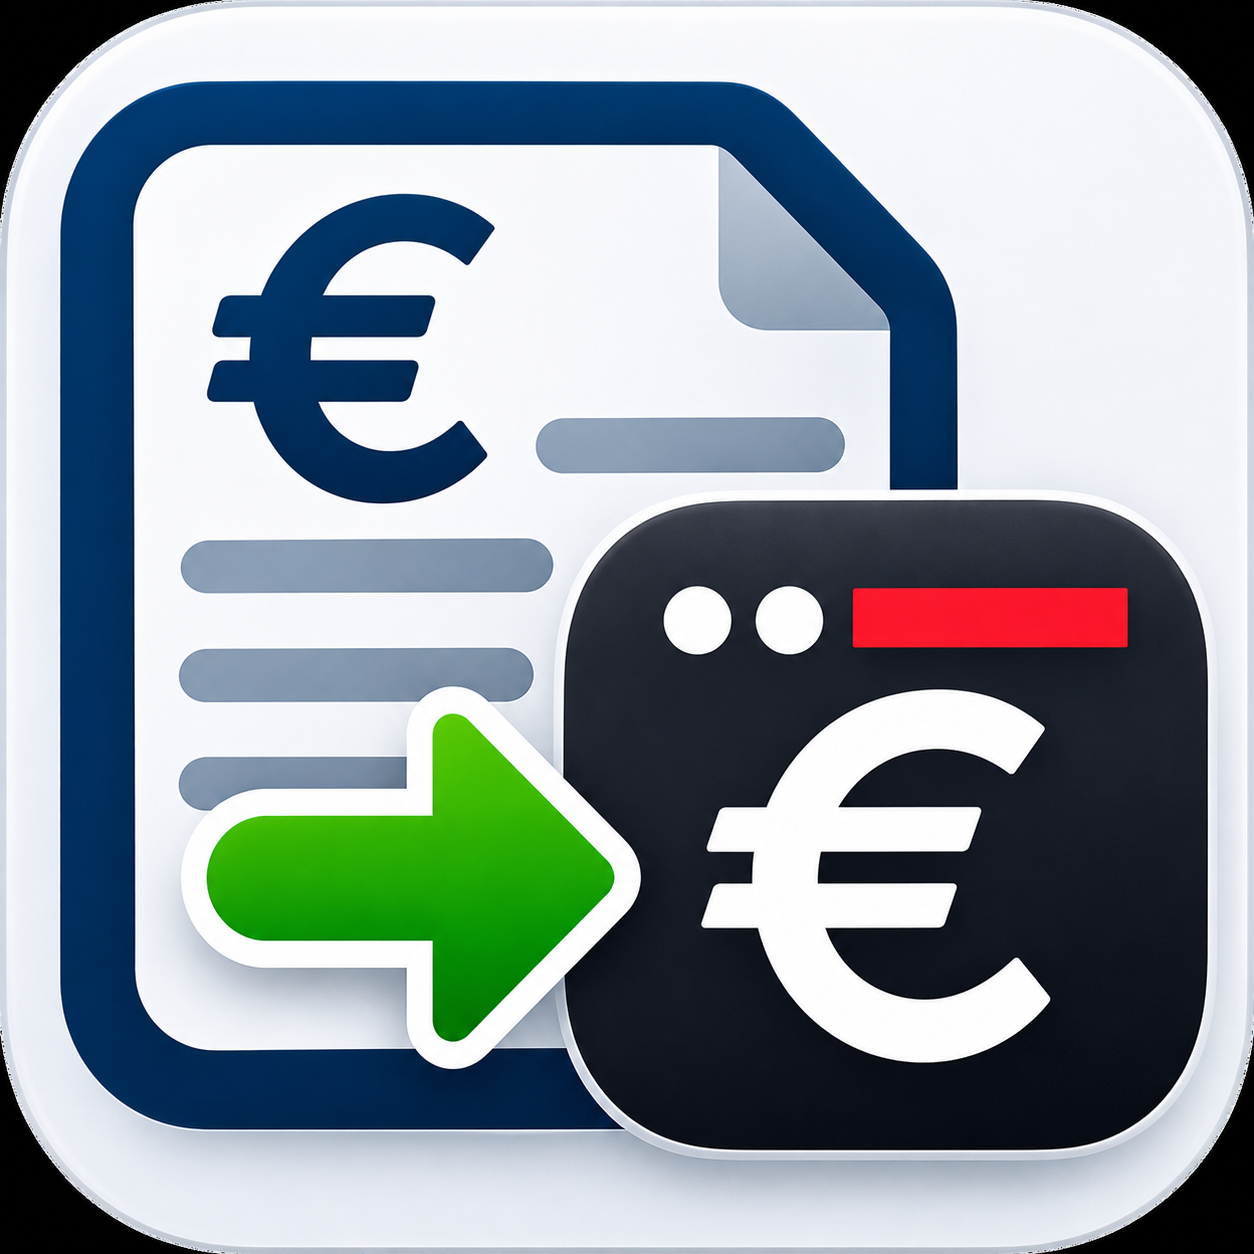
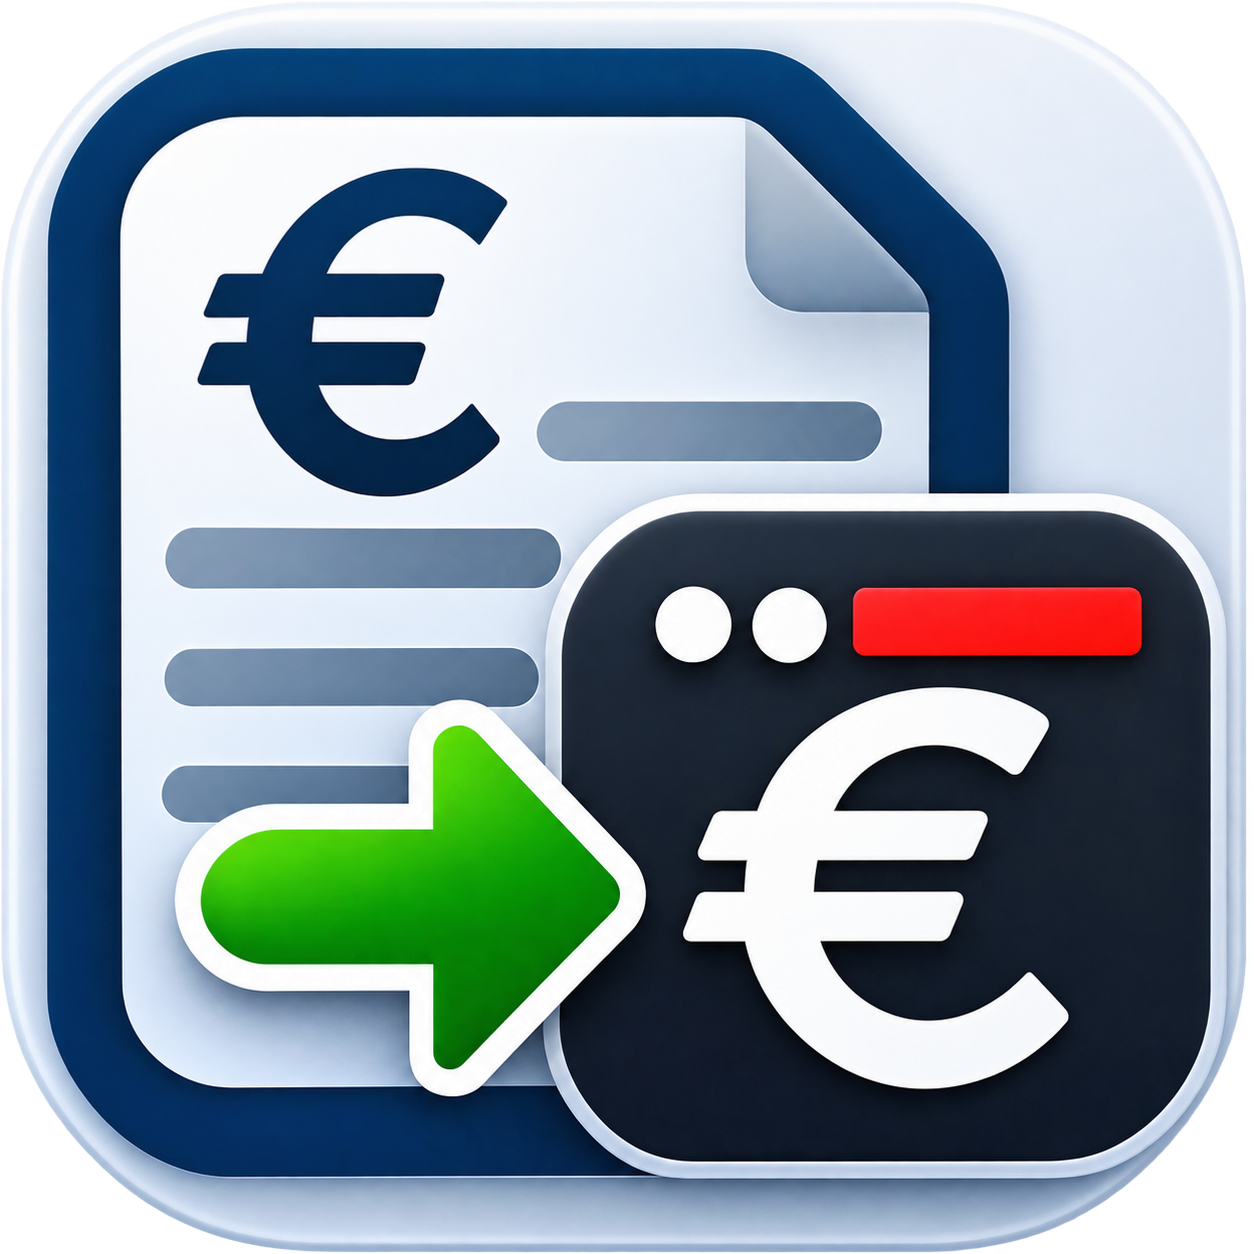
Release v0.7.0: Add Paperless-ngx integration

diff --git a/extensions/rechnung-ueberweisen/src/rechnung-aus-paperless.tsx b/extensions/rechnung-ueberweisen/src/rechnung-aus-paperless.tsx
@@ -1,0 +1,197 @@
+import { Action, ActionPanel, Icon, List, getPreferenceValues, openCommandPreferences, showToast, Toast, useNavigation } from "@raycast/api";
+import { useEffect, useState } from "react";
+import { mkdtemp, rm, writeFile, readdir, stat } from "node:fs/promises";
+import os from "node:os";
+import path from "node:path";
+import { InvoiceForm } from "./rechnung-ueberweisen";
+
+type Settings = { paperlessUrl?: string; paperlessToken?: string };
+type Document = { id: number; title: string; created?: string; added?: string; correspondent?: number | null; original_file_name?: string };
+type Page = { results: Document[]; next: string | null };
+const MAX_PDF_BYTES = 30 * 1024 * 1024;
+
+function config(): { base: URL; token: string } {
+  const prefs = getPreferenceValues<Settings>();
+  const url = (prefs.paperlessUrl ?? "").trim().replace(/\/+$/, "");
+  const token = (prefs.paperlessToken ?? "").trim();
+  if (!url || !token) throw new Error("Paperless-Server und API-Token in den Befehlseinstellungen hinterlegen.");
+  const base = new URL(url + "/");
+  if (base.protocol !== "https:" && base.protocol !== "http:") throw new Error("Nur HTTP(S)-Serveradressen sind erlaubt.");
+  if (base.username || base.password || base.search || base.hash) throw new Error("Bitte eine Serveradresse ohne Zugangsdaten, Query oder Fragment verwenden.");
+  return { base, token };
+}
+
+async function apiGet(url: URL, base: URL, token: string, signal?: AbortSignal): Promise<Response> {
+  // Keine Token-Weitergabe an fremde Hosts, auch nicht bei Redirects.
+  if (url.origin !== base.origin || !url.pathname.startsWith(base.pathname.replace(/\/?$/, "/") + "api/")) {
+    throw new Error("Ungültige Paperless-API-Adresse.");
+  }
+  const response = await fetch(url, {
+    headers: { Authorization: `Token ${token}`, Accept: "application/json, application/pdf, */*" },
+    redirect: "manual",
+    signal,
+  });
+  if (response.status >= 300 && response.status < 400) throw new Error("Paperless hat auf eine andere Adresse umgeleitet. Bitte die Server-URL prüfen.");
+  if (response.status === 401 || response.status === 403) throw new Error("Paperless-Zugriff verweigert. Bitte API-Token und Berechtigungen prüfen.");
+  if (!response.ok) throw new Error(`Paperless HTTP ${response.status}`);
+  return response;
+}
+
+function apiUrl(base: URL, endpoint: string): URL {
+  return new URL("api/" + endpoint, base);
+}
+
+type DocumentType = { id: number; name: string };
+type DocumentTypePage = { results: DocumentType[]; next: string | null };
+
+async function findInvoiceDocumentType(base: URL, token: string, signal: AbortSignal): Promise<number> {
+  let next: URL | null = apiUrl(base, "document_types/");
+  const visited = new Set<string>();
+  while (next) {
+    if (visited.has(next.href)) throw new Error("Paperless liefert eine zyklische Dokumenttyp-Paginierung.");
+    visited.add(next.href);
+    const response = await apiGet(next, base, token, signal);
+    const data = (await response.json()) as DocumentTypePage;
+    if (!Array.isArray(data.results)) throw new Error("Unerwartete Antwort beim Laden der Dokumenttypen.");
+    const match = data.results.find((type) => type.name?.trim().toLocaleLowerCase("de") === "rechnung");
+    if (match) return match.id;
+    next = data.next ? new URL(data.next, base) : null;
+  }
+  throw new Error('In Paperless ist kein Dokumenttyp mit dem Namen "Rechnung" vorhanden.');
+}
+
+async function fetchDocuments(query: string, next: string | null, signal: AbortSignal): Promise<Page> {
+  const { base, token } = config();
+  const invoiceTypeId = await findInvoiceDocumentType(base, token, signal);
+  const url = next ? new URL(next, base) : apiUrl(base, "documents/");
+  url.searchParams.set("document_type__id", String(invoiceTypeId));
+  if (!next) {
+    url.searchParams.set("page_size", "30");
+    url.searchParams.set("ordering", "-added");
+    if (query.trim()) url.searchParams.set("text", query.trim());
+  }
+  const response = await apiGet(url, base, token, signal);
+  const data = (await response.json()) as Page;
+  if (!Array.isArray(data.results)) throw new Error("Unerwartete Antwort von Paperless.");
+  return { results: data.results, next: data.next ?? null };
+}
+
+// Verwaiste PDFs (z.B. bei abgebrochener Passwortabfrage) nach 24h entfernen.
+// Nur eigene Tempverzeichnisse im OS-Tempordner; keine fremden Dateien.
+async function cleanupOldPaperlessFiles() {
+  const tmp = os.tmpdir();
+  const now = Date.now();
+  try {
+    for (const name of await readdir(tmp)) {
+      if (!/^raycast-paperless-[A-Za-z0-9]+$/.test(name)) continue;
+      const dir = path.join(tmp, name);
+      try {
+        const info = await stat(dir);
+        if (info.isDirectory() && now - info.mtimeMs > 24 * 60 * 60 * 1000) {
+          await rm(dir, { recursive: true, force: true });
+        }
+      } catch { /* bereits entfernt oder kein Zugriff */ }
+    }
+  } catch { /* Tempverzeichnis nicht lesbar */ }
+}
+
+async function downloadPdf(id: number): Promise<string> {
+  const { base, token } = config();
+  await cleanupOldPaperlessFiles();
+  // Zuerst das Original für SEPA-QR-Codes; bei Nicht-PDF Archivversion versuchen.
+  for (const original of [true, false]) {
+    const url = apiUrl(base, `documents/${id}/download/`);
+    if (original) url.searchParams.set("original", "true");
+    const response = await apiGet(url, base, token);
+    const contentLength = Number(response.headers.get("content-length") || 0);
+    if (contentLength > MAX_PDF_BYTES) throw new Error("PDF ist größer als 30 MB.");
+    const buffer = Buffer.from(await response.arrayBuffer());
+    if (buffer.length > MAX_PDF_BYTES) throw new Error("PDF ist größer als 30 MB.");
+    if (buffer.subarray(0, 5).toString("ascii") !== "%PDF-") continue;
+    const dir = await mkdtemp(path.join(os.tmpdir(), "raycast-paperless-"));
+    const target = path.join(dir, `paperless-${id}.pdf`);
+    try {
+      await writeFile(target, buffer, { mode: 0o600 });
+      return target;
+    } catch (error) {
+      await rm(dir, { recursive: true, force: true });
+      throw error;
+    }
+  }
+  throw new Error("Weder Original noch Archivversion ist ein PDF.");
+}
+
+export default function PaperlessCommand() {
+  const { push } = useNavigation();
+  const [search, setSearch] = useState("");
+  const [items, setItems] = useState<Document[]>([]);
+  const [next, setNext] = useState<string | null>(null);
+  const [loading, setLoading] = useState(false);
+  const [downloading, setDownloading] = useState(false);
+  const [error, setError] = useState("");
+  const [reload, setReload] = useState(0);
+
+  useEffect(() => {
+    const controller = new AbortController();
+    const timer = setTimeout(async () => {
+      setLoading(true);
+      setError("");
+      try {
+        const page = await fetchDocuments(search, null, controller.signal);
+        if (!controller.signal.aborted) { setItems(page.results); setNext(page.next); }
+      } catch (e) {
+        if (!controller.signal.aborted) { setItems([]); setNext(null); setError(e instanceof Error ? e.message : String(e)); }
+      } finally {
+        if (!controller.signal.aborted) setLoading(false);
+      }
+    }, 300);
+    return () => { clearTimeout(timer); controller.abort(); };
+  }, [search, reload]);
+
+  async function loadMore() {
+    if (!next || loading) return;
+    setLoading(true);
+    try {
+      const page = await fetchDocuments(search, next, new AbortController().signal);
+      setItems((previous) => [...previous, ...page.results.filter((d) => !previous.some((p) => p.id === d.id))]);
+      setNext(page.next);
+    } catch (e) {
+      await showToast({ style: Toast.Style.Failure, title: "Weitere Dokumente konnten nicht geladen werden", message: String(e) });
+    } finally { setLoading(false); }
+  }
+
+  async function choose(doc: Document) {
+    if (downloading) return;
+    setDownloading(true);
+    try {
+      const pdf = await downloadPdf(doc.id);
+      push(<InvoiceForm sourceFilePath={pdf} sourceFilename={doc.title || `Paperless #${doc.id}`} deleteOnUnmount />);
+    } catch (e) {
+      await showToast({ style: Toast.Style.Failure, title: "Dokument konnte nicht geladen werden", message: e instanceof Error ? e.message : String(e) });
+    } finally { setDownloading(false); }
+  }
+
+  return (
+    <List isLoading={loading || downloading} searchBarPlaceholder="Rechnungen in Paperless suchen…" onSearchTextChange={setSearch} throttle>
+      {error ? (
+        <List.EmptyView title="Paperless nicht erreichbar" description={error} actions={<ActionPanel><Action title="Paperless-Einstellungen öffnen" icon={Icon.Gear} onAction={openCommandPreferences} /><Action title="Erneut versuchen" onAction={() => setReload((v) => v + 1)} /></ActionPanel>} />
+      ) : items.length === 0 ? (
+        <List.EmptyView title="Keine Rechnungen gefunden" description="Nur Dokumente vom Typ Rechnung werden angezeigt. Suchbegriff ändern oder Suche leeren." />
+      ) : (
+        <>
+          {items.map((doc) => (
+            <List.Item
+              key={doc.id}
+              icon={Icon.Document}
+              title={doc.title || `Dokument #${doc.id}`}
+              subtitle={doc.original_file_name || undefined}
+              accessories={[{ text: (doc.created || doc.added || "").slice(0, 10) }, { text: `#${doc.id}` }]}
+              actions={<ActionPanel><Action title="Als Rechnung übernehmen" icon={Icon.ArrowRight} onAction={() => choose(doc)} /><Action title="Paperless-Einstellungen" icon={Icon.Gear} onAction={openCommandPreferences} /></ActionPanel>}
+            />
+          ))}
+          {next && <List.Item title="Weitere Dokumente laden…" icon={Icon.ArrowDown} actions={<ActionPanel><Action title="Weitere Dokumente laden" onAction={loadMore} /></ActionPanel>} />}
+        </>
+      )}
+    </List>
+  );
+}

diff --git a/extensions/rechnung-ueberweisen/src/rechnung-ueberweisen.tsx b/extensions/rechnung-ueberweisen/src/rechnung-ueberweisen.tsx
@@ -3,7 +3,7 @@ import { useEffect, useState } from "react";
 import { execFile } from "node:child_process";
 import { promisify } from "node:util";
 import { existsSync } from "node:fs";
-import { mkdir, rename, writeFile } from "node:fs/promises";
+import { mkdir, rename, writeFile, rm } from "node:fs/promises";
 import { randomUUID } from "node:crypto";
 import os from "node:os";
 import path from "node:path";
@@ -77,7 +77,11 @@ function AlternativePicker({
   );
 }
 
-export default function Command() {
+export function InvoiceForm({ sourceFilePath, sourceFilename, deleteOnUnmount = false }: {
+  sourceFilePath?: string;
+  sourceFilename?: string;
+  deleteOnUnmount?: boolean;
+}) {
   const [invoice, setInvoice] = useState<Invoice>();
   const [loading, setLoading] = useState(true);
   const [submitting, setSubmitting] = useState(false);
@@ -91,6 +95,18 @@ export default function Command() {
   const [pdfPassword, setPdfPassword] = useState("");
   const [savePassword, setSavePassword] = useState(true);
   const [passwordRejected, setPasswordRejected] = useState(false);
+
+  // Nur von dieser Extension erzeugte Paperless-Tempdateien löschen.
+  // Niemals Finder-PDFs anfassen. Nicht beim Unmount löschen: Raycast kann
+  // während eines laufenden Swift-Aufrufs die View kurz neu aufbauen.
+  async function cleanupPaperlessPdf(filePath: string) {
+    if (!deleteOnUnmount || !sourceFilePath || filePath !== sourceFilePath) return;
+    const directory = path.dirname(filePath);
+    if (path.dirname(directory) !== os.tmpdir() ||
+        !path.basename(directory).startsWith("raycast-paperless-") ||
+        !/^paperless-\d+\.pdf$/.test(path.basename(filePath))) return;
+    await rm(directory, { recursive: true, force: true }).catch(() => {});
+  }
 
   async function extractPdf(filePath: string, password?: string, remember = false) {
     setLoading(true);
@@ -123,8 +139,12 @@ export default function Command() {
       setNeedsPassword(false);
       setPasswordRejected(false);
       setPdfPassword("");
+      // PDF wird nach erfolgreicher Swift-Auswertung nicht mehr benötigt.
+      // Bei Passwortabfrage bleibt sie bis zum erfolgreichen Entsperren erhalten.
+      await cleanupPaperlessPdf(filePath);
       if (!data.iban.length) await showToast({ style: Toast.Style.Failure, title: "Keine gültige IBAN erkannt", message: "Bitte manuell ergänzen." });
     } catch (error) {
+      await cleanupPaperlessPdf(filePath);
       await showToast({ style: Toast.Style.Failure, title: "PDF konnte nicht verarbeitet werden", message: error instanceof Error ? error.message : String(error) });
     } finally {
       setLoading(false);
@@ -135,13 +155,16 @@ export default function Command() {
     let active = true;
     async function load() {
       try {
-        const selected = await getSelectedFinderItems();
-        const pdf = selected.find((item) => item.path.toLowerCase().endsWith(".pdf"));
-        if (!pdf) throw new Error("Bitte zuerst eine PDF-Datei im Finder markieren.");
+        let pdfPathToRead = sourceFilePath;
+        if (!pdfPathToRead) {
+          const selected = await getSelectedFinderItems();
+          pdfPathToRead = selected.find((item) => item.path.toLowerCase().endsWith(".pdf"))?.path;
+        }
+        if (!pdfPathToRead) throw new Error("Bitte zuerst eine PDF-Datei im Finder markieren.");
         if (!active) return;
-        setPdfPath(pdf.path);
-        setFilename(path.basename(pdf.path));
-        await extractPdf(pdf.path);
+        setPdfPath(pdfPathToRead);
+        setFilename(sourceFilename || path.basename(pdfPathToRead));
+        await extractPdf(pdfPathToRead);
       } catch (error) {
         if (active) {
           setLoading(false);
@@ -150,8 +173,11 @@ export default function Command() {
       }
     }
     void load();
-    return () => { active = false; };
-  }, []);
+    return () => {
+      active = false;
+      // Kein Unmount-Cleanup: könnte laufenden Swift-Aufruf unterbrechen.
+    };
+  }, [sourceFilePath, sourceFilename, deleteOnUnmount]);
 
   function paymentText(): string {
     return [
@@ -273,4 +299,8 @@ export default function Command() {
       </>}
     </Form>
   );
+}
+
+export default function Command() {
+  return <InvoiceForm />;
 }

diff --git a/extensions/rechnung-ueberweisen/raycast-env.d.ts b/extensions/rechnung-ueberweisen/raycast-env.d.ts
@@ -15,10 +15,19 @@ declare type Preferences = ExtensionPreferences
 declare namespace Preferences {
   /** Preferences accessible in the `rechnung-ueberweisen` command */
   export type RechnungUeberweisen = ExtensionPreferences & {}
+  /** Preferences accessible in the `rechnung-aus-paperless` command */
+  export type RechnungAusPaperless = ExtensionPreferences & {
+  /** Paperless-ngx Server URL - Basisadresse deiner Paperless-ngx-Instanz */
+  "paperlessUrl": string,
+  /** Paperless-ngx API Token - API-Token aus dem Paperless-Profil */
+  "paperlessToken": string
+}
 }
 
 declare namespace Arguments {
   /** Arguments passed to the `rechnung-ueberweisen` command */
   export type RechnungUeberweisen = {}
+  /** Arguments passed to the `rechnung-aus-paperless` command */
+  export type RechnungAusPaperless = {}
 }
 

diff --git a/extensions/rechnung-ueberweisen/README.md b/extensions/rechnung-ueberweisen/README.md
@@ -1,8 +1,22 @@
 # Rechnung überweisen — Raycast extension
 
-A macOS Raycast extension that reads payment details from a PDF invoice selected in Finder and prepares a **prefilled SEPA transfer in simplebanking / simplesend**. It does not submit or authorize payments.
+A macOS Raycast extension that reads payment details from PDF invoices selected in Finder or retrieved from **Paperless-ngx**, and prepares a **prefilled SEPA transfer in simplebanking / simplesend**. It does not submit or authorize payments.
 
 > **Language:** The Raycast interface is currently in German. This README is in English for contributors.
+
+## What's New in v0.7.0
+
+Version 0.7.0 adds optional **Paperless-ngx integration**.
+
+- Search invoices stored in your self-hosted Paperless-ngx instance directly from Raycast.
+- Automatically filter documents by the Paperless document type `Rechnung`.
+- Configure the Paperless server URL and API token in Raycast preferences.
+- Download selected PDFs temporarily and process them using the existing invoice extraction workflow.
+- Review and edit the extracted payment details before sending them to simplesend.
+- Clean up temporary PDF files after processing, with additional cleanup for older files.
+- Updated extension icon.
+
+The original Finder-based workflow remains available without Paperless-ngx.
 
 ## Features
 
@@ -53,6 +67,24 @@ Restart simplebanking after changing this preference. A working simplesend entit
 
 The extension **never executes a bank transfer by itself**.
 
+## Paperless-ngx setup and usage
+
+Paperless-ngx integration is optional and independent of other Raycast Paperless extensions.
+
+1. Configure the **Paperless-ngx Server URL** and **Paperless-ngx API Token** in the preferences for the **Rechnung aus Paperless** command.
+2. In Paperless-ngx, classify invoices using the document type `Rechnung`.
+3. Run **Rechnung aus Paperless** in Raycast.
+4. Search for and select an invoice.
+5. Review the extracted payee, IBAN, amount, and payment reference.
+6. Choose **In simplesend öffnen** to prepare the transfer in simplebanking.
+7. Verify and authorize the transfer in simplebanking.
+
+The document type is resolved dynamically through the Paperless-ngx API; no document type ID needs to be configured.
+
+Downloaded PDFs are processed locally as temporary files. The extension removes temporary files after processing and performs cleanup of older temporary files from interrupted sessions. Original documents in Paperless-ngx are not modified.
+
+Paperless credentials are configured in Raycast preferences, not embedded in the source code. The API token uses a password-type preference.
+
 ## Password-protected PDFs
 
 The PDF is unlocked for reading without modifying the original file. A password can be stored in the macOS Keychain and reused automatically. The saved password is tried for **other encrypted PDFs as well**; it is not currently restricted to a particular pharmacy or sender. If it does not work, Raycast prompts for another password. Passwords are not placed in transfer-draft JSON or the source repository.
@@ -81,7 +113,8 @@ rechnung-ueberweisen/
 │   └── transfer-icon.png
 ├── src/
 │   ├── extract.ts             # Payment-data parsing and candidate selection
-│   └── rechnung-ueberweisen.tsx  # Raycast UI and simplesend handoff
+│   ├── rechnung-ueberweisen.tsx  # Invoice form and simplesend handoff
+│   └── rechnung-aus-paperless.tsx  # Paperless-ngx search and download
 ├── package.json
 ├── package-lock.json
 ├── raycast-env.d.ts
